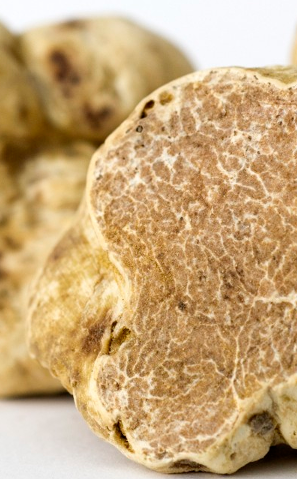
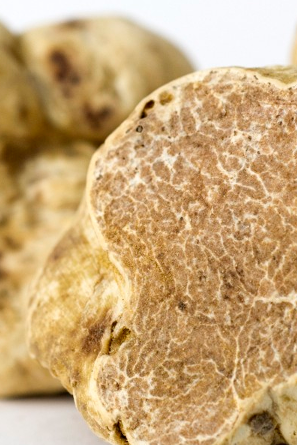
fix whitetruffles

diff --git a/src/truffles/whitetruffles.md b/src/truffles/whitetruffles.md
@@ -18,11 +18,12 @@ dropdown-items:  [
   ],
 Buying truffles, Recipies, Truffle-hunting holidays, Forum, Contact]
 ---
+<left>![](../../assets/images/truffle3.png)</left>
+
 # White Truffles
 
 ## Tuber magnatum
 
-<right>![](../../assets/images/truffle3.png)</right>
 
 White Truffles, also known as Piedmont White Truffles, are edible mushrooms which grow underground on the roots of trees, especially oak, hazel, poplar and beech trees. They are found mainly in the Piedmont region of northern Italy but also exist in Croatia.
 
@@ -32,7 +33,7 @@ Some connoisseurs consider White Truffles to have a superior smell and flavour t
 
 White Truffles have a thick, rough, brownish-yellow coloured skin and can reach as much as 12cm in diameter and 500 grams in weight, but the majority are nowhere near as big as that. Their flesh is pale creamy white or brown in colour with white marbling. Like the French black variety, Italian White Truffles are prized by gourmets for their taste and smell, which are more intense than that of Black Truffles. White Truffles are generally served uncooked in small quantities, such as shaved into thin slices over steaming buttered pasta or salads.
 
-<right>![](../../assets/images/truffle4.png)</right>
+<left>![](../../assets/images/truffle4.png)</left>
 
 Because White Truffles produce a scent that mimics a male pig’s sex hormone, historically female pigs were used to help locate these underground delicacies. Recently, however, dogs have become more popular for truffle hunting since they can be trained to just locate the truffles whereas pigs tend to eat the truffles as soon as they find them. Without a trained dog (or pig!) to help them, most mushroom hunters would never find a White Truffle.
 
